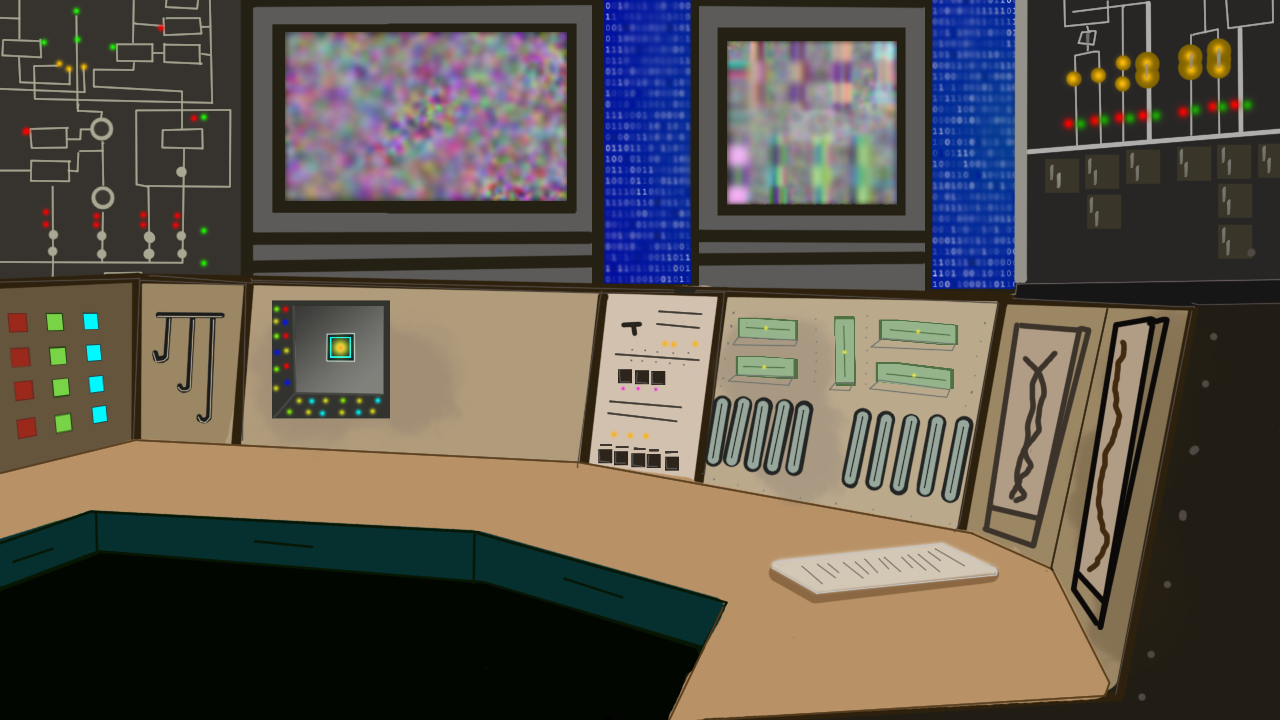
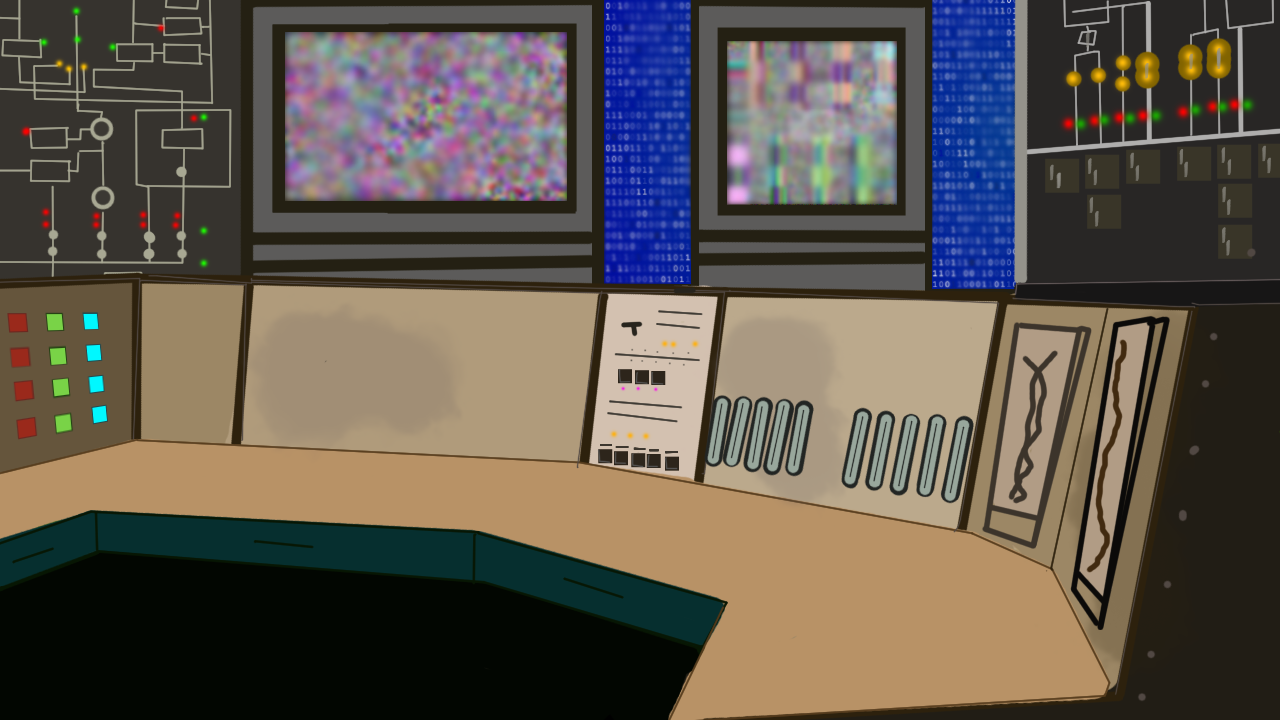
improvement of levels

Changed region(s): [[0.125, 0.3972, 0.3125, 0.5806], [0.5625, 0.4278, 0.75, 0.55], [0.5938, 0.7333, 0.7812, 0.8556]]

diff --git a/task_manager.py b/task_manager.py
@@ -14,7 +14,10 @@ class TaskManager(object):
         game_flags = {
             "LOCK_ACTIVATED" : False,
             "CUBE_IS_REPAIRED" : False,
-            "GARAGE_DOOR_UNLOCKED" : False
+            "GARAGE_DOOR_UNLOCKED" : False,
+            "CHAT_WITH_SAM_ENDED" : False,
+            "SOUND_ENERGY_COLLECTED" : False,
+            "INDICATOR_LEVEL" : 0
         }
         return game_flags
 
@@ -41,6 +44,22 @@ class TaskManager(object):
                 "execution_status" : False
             },
             "open_garage_door" : {
+                "call_status" : False,
+                "execution_status" : False
+            },
+            "follow_the_map" :  {
+                "call_status" : False,
+                "execution_status" : False
+            },
+            "increase_indicator_level" :  {
+                "call_status" : False,
+                "execution_status" : False
+            },
+            "unlock_energy_box" :  {
+                "call_status" : False,
+                "execution_status" : False
+            },
+            "finish_game" :  {
                 "call_status" : False,
                 "execution_status" : False
             }
@@ -99,6 +118,34 @@ class TaskManager(object):
                 self.show_animation(["slide1.png"])
                 self.board.load_new_level_elements(6)
                 return True
+        elif action_name == "follow_the_map":
+            print("--- Tunnel level is active ---")
+            self.action_list[action_name]["execution_status"] = True
+            self.board.load_new_level_elements(7)
+            return True
+        elif action_name == "increase_indicator_level":
+            if self.game_flags["INDICATOR_LEVEL"] == 2:
+                self.enable_flag("SOUND_ENERGY_COLLECTED")
+                self.action_list[action_name]["execution_status"] = True
+            else:
+                self.action_list[action_name]["call_status"] == False
+                self.enable_task_action("unlock_energy_box")
+            self.game_flags["INDICATOR_LEVEL"] += 1
+            item = self.board.get_item_by_its_name("Indicator")
+            item.change_item_image("scale" + str(self.game_flags["INDICATOR_LEVEL"]) + ".png")
+            return False
+        elif action_name == "unlock_energy_box":
+            item = self.board.get_item_by_its_name("Energy box")
+            item.change_item_image("energy-box-opened.png")
+            item.change_item_full_image("door-unlocked.png")
+            item.dialog_text = ("Now I can use it")
+            return False
+        elif action_name == "finish_game":
+            print("--- Game is ended ---")
+            self.action_list[action_name]["execution_status"] = True
+            self.show_slide(["ending_slide.png"])
+            self.show_animation(["the-end.png"])
+            return False
         elif action_name == "another_task":
             return False
         else:

diff --git a/item_viewing_window.py b/item_viewing_window.py
@@ -50,16 +50,20 @@ class ItemViewingWindow(object):
                 textbox_values += ['Take this item', 'I don\'t need it']
             else:
                 textbox_values += ['---', 'Exit']
+
             if self.current_item.interact_with == self.selected_equip_item:           # sprawdzenie czy po wybraniu np chisel z plecaka, zmienia sie akcja na kostce
                 textbox_values.append('You can use {}'.format(self.current_item.interact_with))
-            if equipment.check_cube_parts() and self.current_item.name == "Toolbox":
+            elif equipment.check_cube_parts() and self.current_item.name == "Toolbox":
                 textbox_values.append('You can repair the cube')
+            elif self.current_item.name == "Lock":
+                textbox_values.append('Enter the code')
+                task_manager.enable_flag("LOCK_ACTIVATED")
+            elif self.current_item.name == "Map" and task_manager.game_flags["CHAT_WITH_SAM_ENDED"]:
+                textbox_values.append("You can go to this place")
+            elif self.current_item.name == "Energy box" and task_manager.game_flags["SOUND_ENERGY_COLLECTED"]:
+                textbox_values.append("Place the cube and return home")
             else:
-                if self.current_item.name == "Lock":
-                    textbox_values.append('Enter the code')
-                    task_manager.enable_flag("LOCK_ACTIVATED")
-                else:
-                    textbox_values.append('Nothing to do with it')
+                textbox_values.append('Nothing to do with it')
 
         for idx, tb in enumerate(self.textbox_list):
             tb.display_text(textbox_values[idx])

diff --git a/game.py b/game.py
@@ -50,8 +50,12 @@ class Game(object):
                             if self.equipment.is_open:
                                 self.equipment.hide_backpack()
                             get_selected_item = self.equipment.get_selected_item()
-                            self.item_view_window.show_item(board_item, get_selected_item, self.equipment, self.task_manager)
-                            board_item.is_active = 1
+                            if board_item.name == "Sam":
+                                self.task_manager.show_dialog(["dialog_3.png"])
+                                self.task_manager.enable_flag("CHAT_WITH_SAM_ENDED")
+                            else:
+                                self.item_view_window.show_item(board_item, get_selected_item, self.equipment, self.task_manager)
+                                board_item.is_active = 1
                         if is_collidate and board_item.is_clickable == 0:
                             if board_item.change_slide != "none":
                                 self.board.load_new_level_elements(board_item.change_slide)

diff --git a/textbox.py b/textbox.py
@@ -51,5 +51,11 @@ class TextBox(object):
                 if stm.write_sth("key") == "OK":
                     item_view_window.hide_item()
                     task_manager.enable_task_action("unlock_house_door")
+            elif self.sentence == "You can go to this place":
+                item_view_window.hide_item()
+                task_manager.enable_task_action("follow_the_map")
+            elif self.sentence == "Place the cube and return home":
+                item_view_window.hide_item()
+                task_manager.enable_task_action("finish_game")
             else:
                 print('No action with this textbox')
